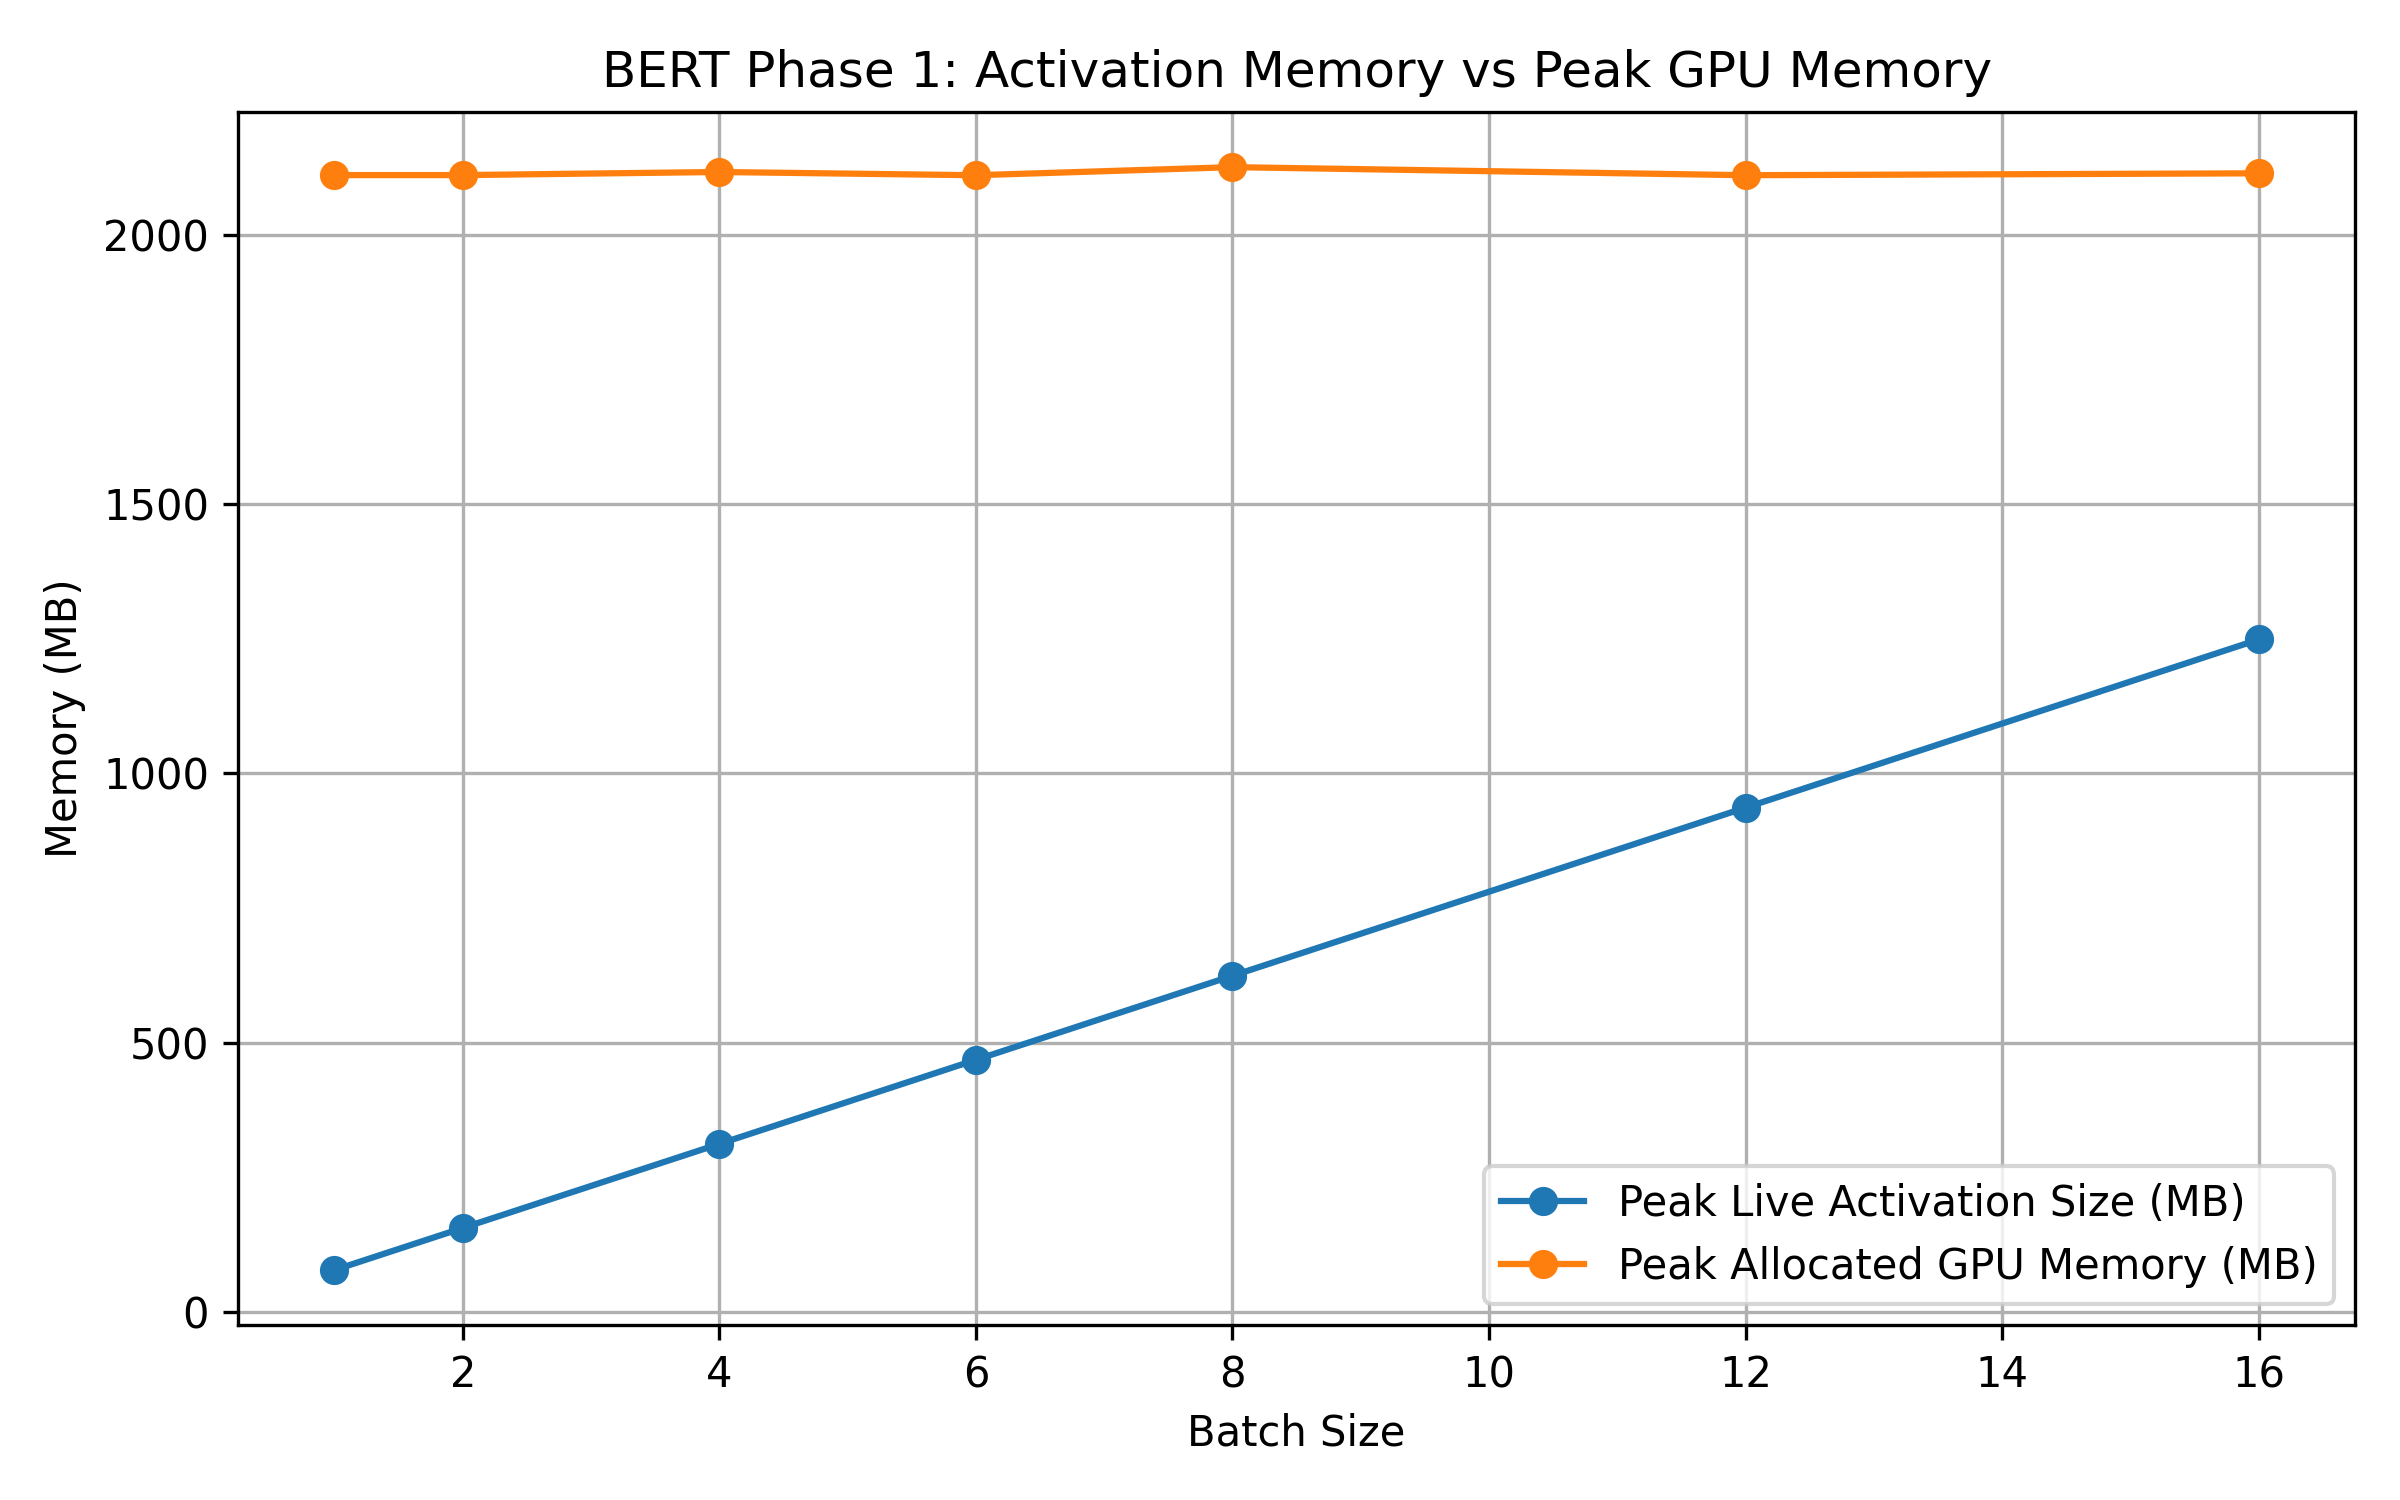
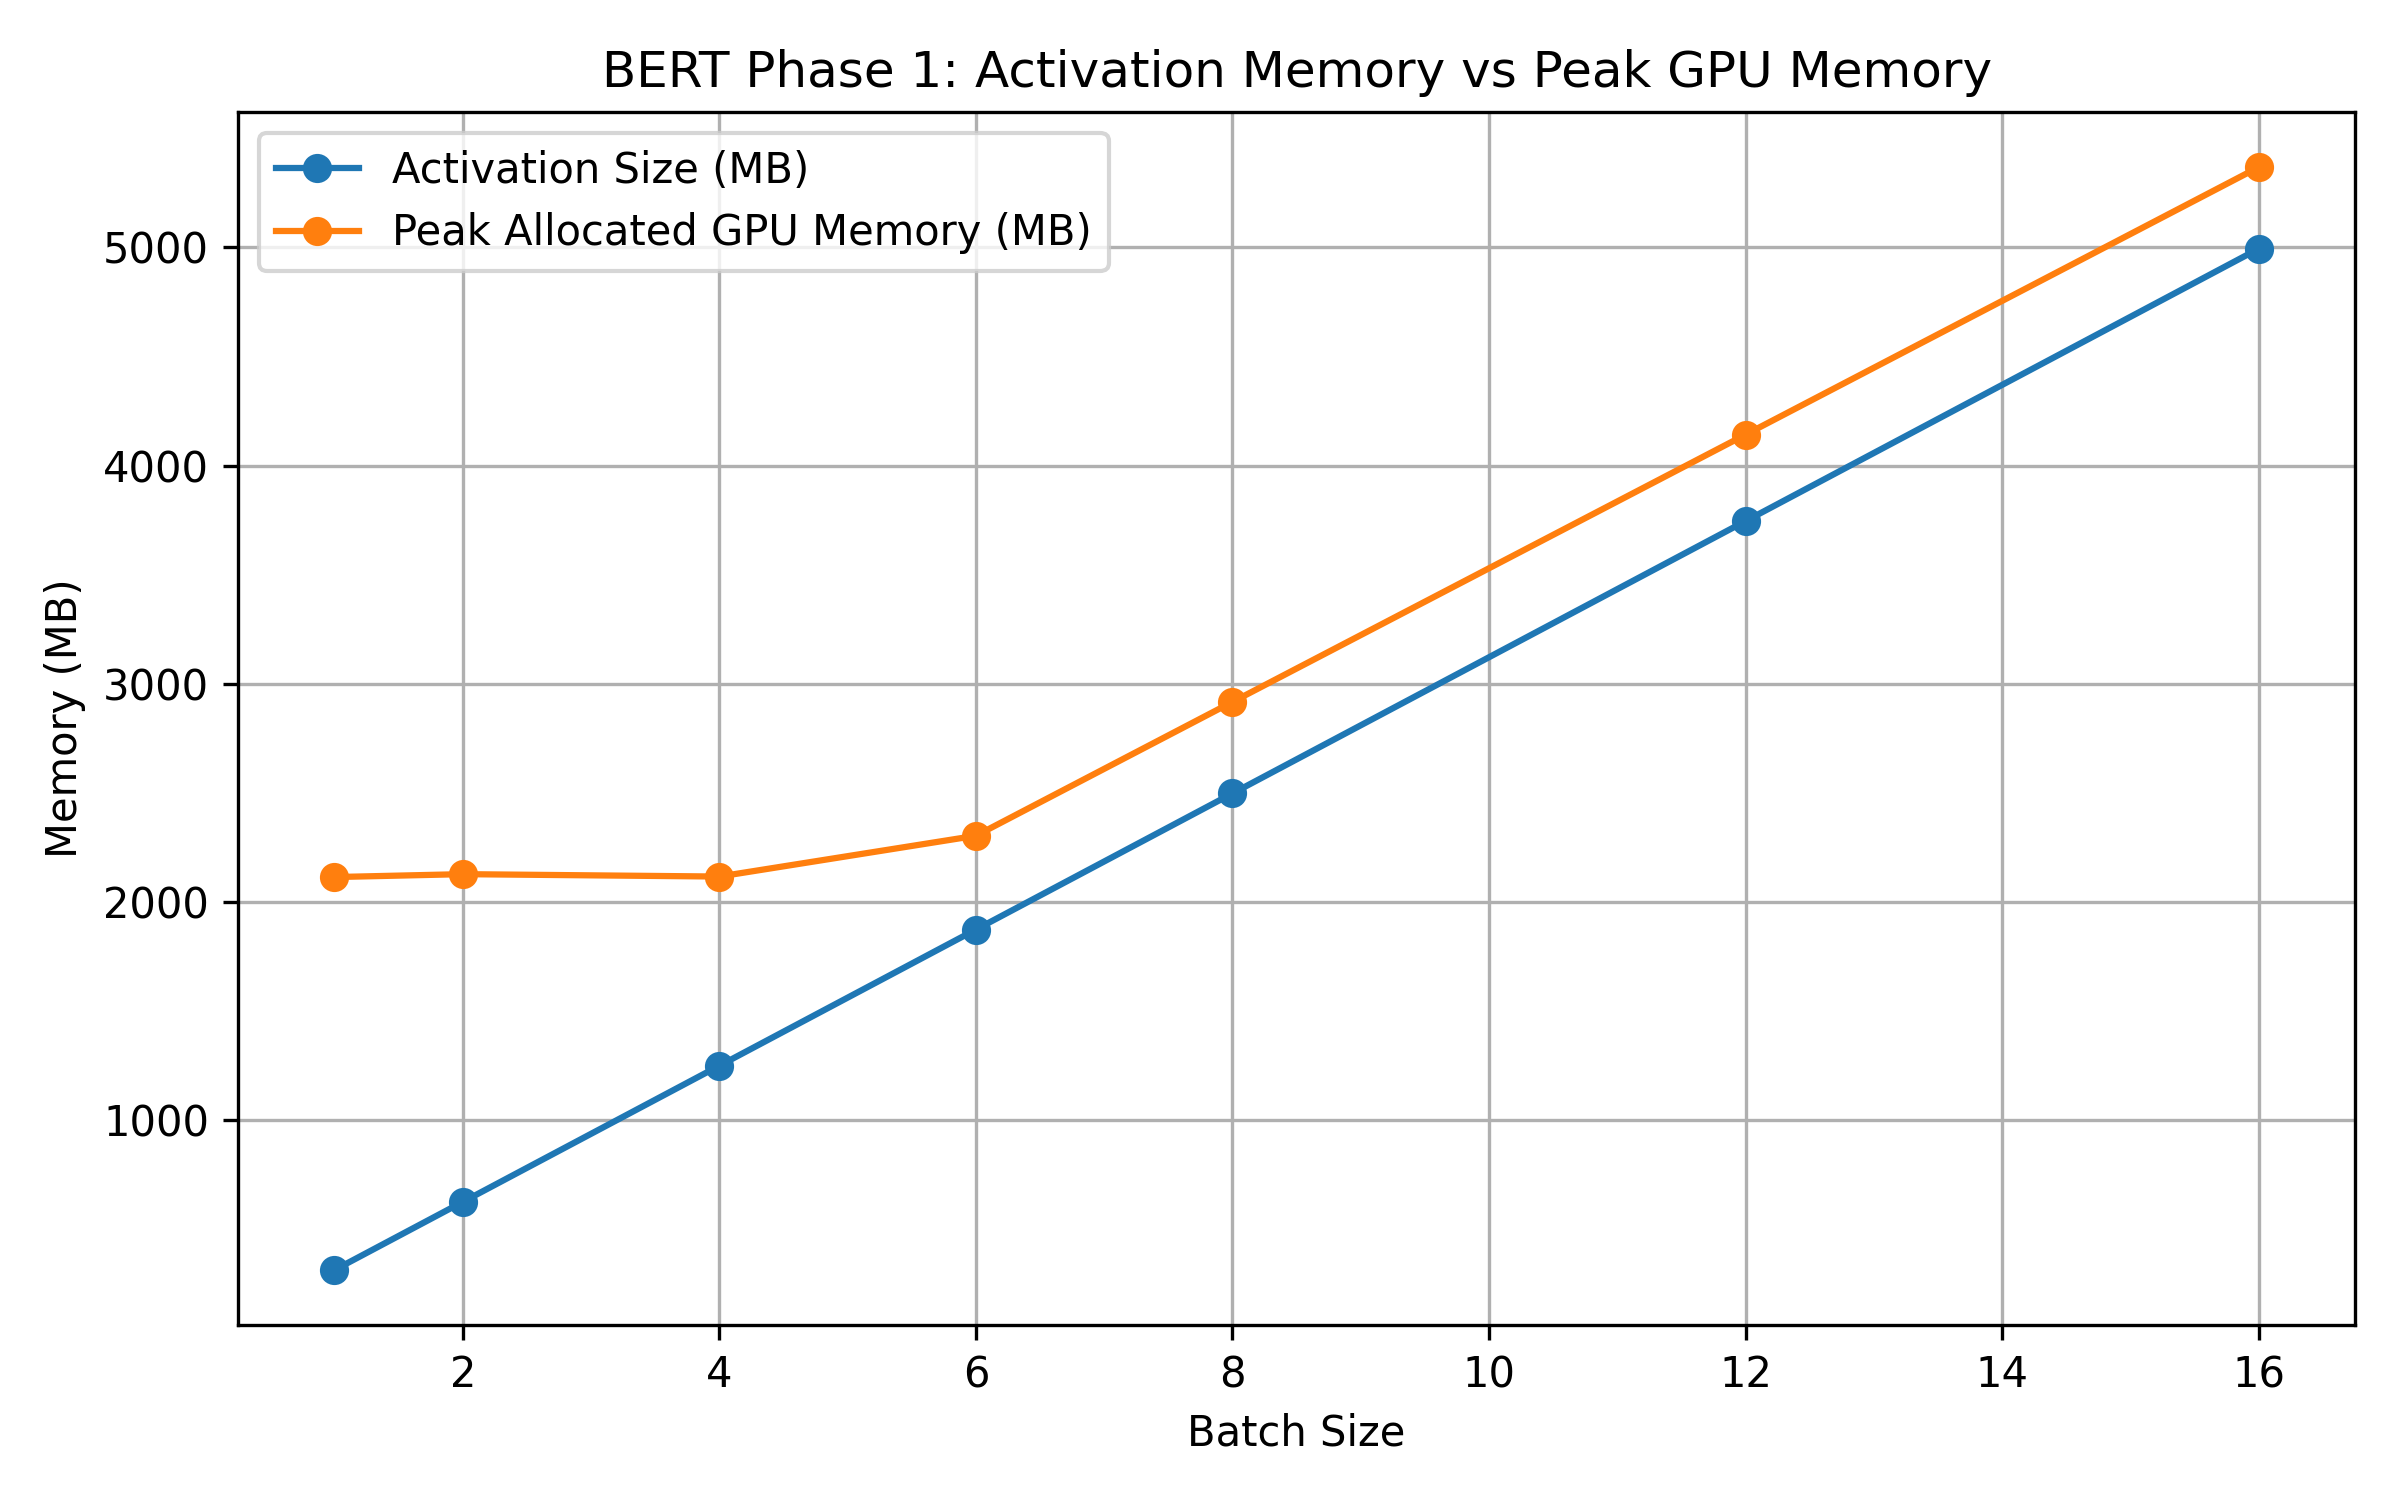
debug

diff --git a/experiments/run_phase1_bert.py b/experiments/run_phase1_bert.py
@@ -4,40 +4,10 @@ from typing import List, Dict, Any
 
 from training.train import run_phase1_bert
 
-
-def compute_peak_live_activation_memory_mb(activations: dict) -> float:
-    """
-    Sweep-line computation of peak live activation memory.
-    """
-    if not activations:
-        return 0.0
-
-    events = []
-    for act in activations.values():
-        start = act["first_use_index"]
-        end = act["last_use_index"]
-        size = act["size_bytes"]
-
-        events.append((start, size))
-        events.append((end + 1, -size))
-
-    events.sort()
-
-    current_bytes = 0
-    peak_bytes = 0
-    for _, delta in events:
-        current_bytes += delta
-        peak_bytes = max(peak_bytes, current_bytes)
-
-    return peak_bytes / (1024 ** 2)
-
-
 def summarize_trace(batch_size: int, seq_len: int, trace: Dict[str, Any]) -> Dict[str, Any]:
     total_activation_bytes = sum(
         act["size_bytes"] for act in trace["activations"].values()
     )
-
-    peak_live_activation_mb = compute_peak_live_activation_memory_mb(trace["activations"])
 
     avg_forward_ms = (
         sum(op["duration_ms"] for op in trace["forward_ops"]) / len(trace["forward_ops"])
@@ -60,7 +30,6 @@ def summarize_trace(batch_size: int, seq_len: int, trace: Dict[str, Any]) -> Dic
         "num_backward_ops": len(trace["backward_ops"]),
         "num_activations": len(trace["activations"]),
         "total_activation_mb": total_activation_bytes / (1024 ** 2),
-        "peak_live_activation_mb": peak_live_activation_mb,
         "parameter_memory_mb": trace["parameter_memory_mb"],
         "gradient_memory_mb": trace["gradient_memory_mb"],
         "avg_forward_op_ms": avg_forward_ms,
@@ -80,7 +49,7 @@ def save_summary_csv(rows: List[Dict[str, Any]], out_path: str) -> None:
 
 def main():
     batch_sizes = [1, 2, 4, 6, 8, 12, 16]
-    seq_len = 128
+    seq_len = 512
     summary_rows = []
 
     for bs in batch_sizes:

diff --git a/experiments/run_phase1_resnet.py b/experiments/run_phase1_resnet.py
@@ -3,35 +3,11 @@ import os
 from typing import List, Dict, Any
 
 from training.train import run_phase1_resnet
-def compute_peak_live_activation_memory_mb(activations: dict) -> float:
-    """
-    Compute the maximum live activation memory over execution steps.
-
-    Each activation is considered live on the inclusive interval:
-        [first_use_index, last_use_index]
-
-    Returns memory in MB.
-    """
-    if not activations:
-        return 0.0
-
-    max_step = max(act["last_use_index"] for act in activations.values())
-    peak_live_bytes = 0
-
-    for step in range(max_step + 1):
-        live_bytes = 0
-        for act in activations.values():
-            if act["first_use_index"] <= step <= act["last_use_index"]:
-                live_bytes += act["size_bytes"]
-        peak_live_bytes = max(peak_live_bytes, live_bytes)
-
-    return peak_live_bytes / (1024 ** 2)
 
 def summarize_trace(batch_size: int, trace: Dict[str, Any]) -> Dict[str, Any]:
     total_activation_bytes = sum(
         act["size_bytes"] for act in trace["activations"].values()
     )
-    peak_live_activation_mb = compute_peak_live_activation_memory_mb(trace["activations"])
 
     avg_forward_ms = (
         sum(op["duration_ms"] for op in trace["forward_ops"]) / len(trace["forward_ops"])
@@ -53,7 +29,6 @@ def summarize_trace(batch_size: int, trace: Dict[str, Any]) -> Dict[str, Any]:
         "num_backward_ops": len(trace["backward_ops"]),
         "num_activations": len(trace["activations"]),
         "total_activation_mb": total_activation_bytes / (1024 ** 2),
-        "peak_live_activation_mb": peak_live_activation_mb,
         "avg_forward_op_ms": avg_forward_ms,
         "avg_backward_op_ms": avg_backward_ms,
     }

diff --git a/analysis/plot_memory_breakdown.py b/analysis/plot_memory_breakdown.py
@@ -23,13 +23,13 @@ def main(model):
     rows = read_csv(input_csv)
 
     batch_sizes = [int(r["batch_size"]) for r in rows]
-    activation_mb = [float(r["peak_live_activation_mb"]) for r in rows]
+    activation_mb = [float(r["total_activation_mb"]) for r in rows]
     peak_memory_mb = [float(r["peak_memory_allocated_mb"]) for r in rows]
 
     os.makedirs(os.path.dirname(output_png), exist_ok=True)
 
     plt.figure(figsize=(8, 5))
-    plt.plot(batch_sizes, activation_mb, marker="o", label="Peak Live Activation Size (MB)")
+    plt.plot(batch_sizes, activation_mb, marker="o", label="Activation Size (MB)")
     plt.plot(batch_sizes, peak_memory_mb, marker="o", label="Peak Allocated GPU Memory (MB)")
     plt.xlabel("Batch Size")
     plt.ylabel("Memory (MB)")
